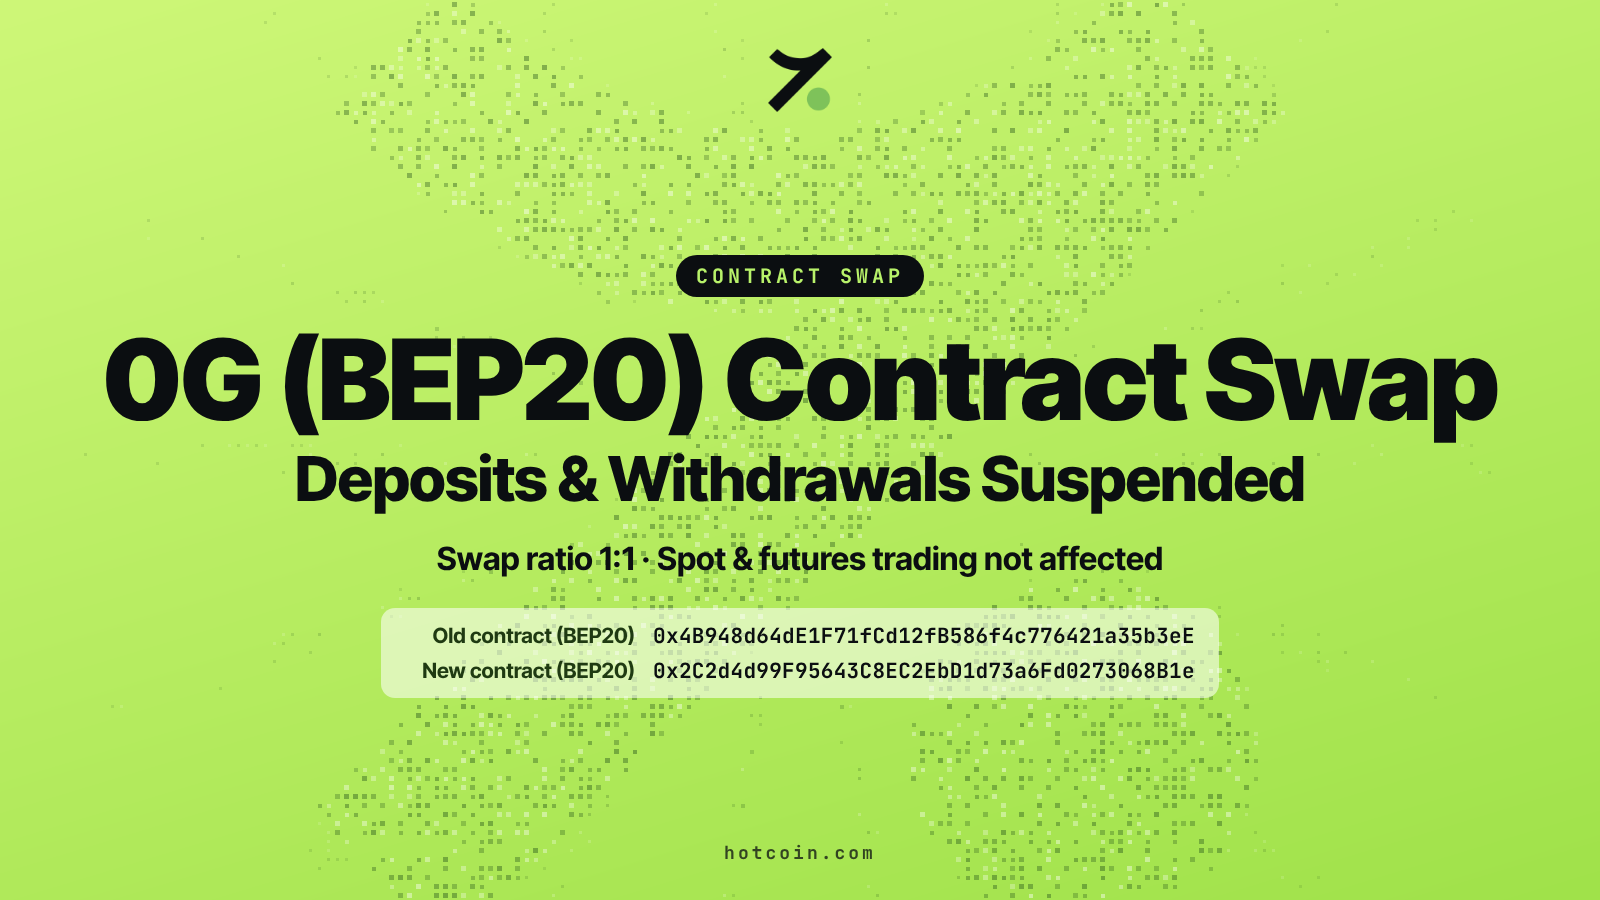
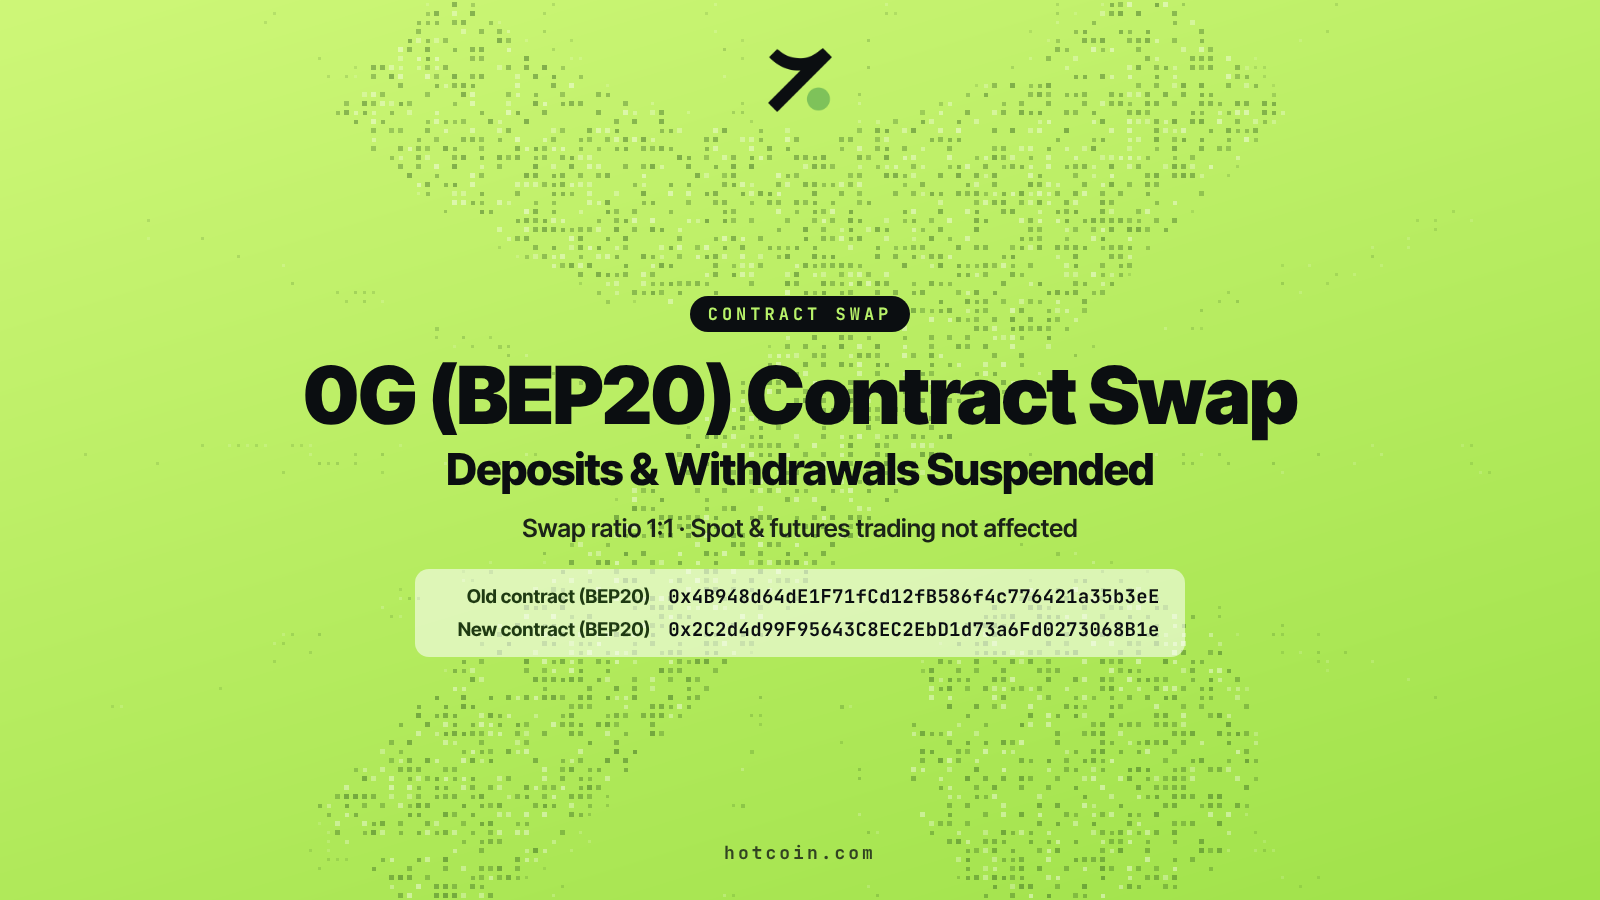
Announcements: accurate hat cutout, smaller type, black theme with symbol at the bottom
Claude-Session: https://claude.ai/code/session_013FLHmBnkkuvxSqLZ9CYW6u

Changed region(s): [[0.0625, 0.28, 0.9375, 0.7778]]

diff --git a/social/announcements/template/make_bg.py b/social/announcements/template/make_bg.py
@@ -4,13 +4,15 @@ import math, random
 from PIL import Image, ImageDraw, ImageFilter
 ROOT = '/home/user/sandbox'
 W, H = 1600, 900
-OUT = ROOT + '/social/announcements/template/bg-lime-1600x900.png'
+import sys
+THEME = sys.argv[1] if len(sys.argv) > 1 else 'lime'
+OUT = ROOT + f'/social/announcements/template/bg-{THEME}-1600x900.png'
 random.seed(9)
 
 # base: soft lime gradient
 bg = Image.new('RGB', (W, H))
 px = bg.load()
-c1, c2 = (206, 247, 120), (160, 226, 74)
+c1, c2 = ((206, 247, 120), (160, 226, 74)) if THEME == 'lime' else ((16, 20, 18), (6, 8, 7))
 for y in range(H):
     for x in range(W):
         t = min(1, max(0, (x / W) * 0.35 + (y / H) * 0.65))
@@ -35,7 +37,10 @@ for gy in range(0, H, step):
         if v < 0.06 or random.random() > 0.55 * v + 0.05: continue
         s = 2 + int(v * 3.2 * random.uniform(0.6, 1.1))
         alpha = int(25 + 95 * v * random.uniform(0.5, 1))
-        col = (24, 70, 20, alpha) if random.random() > 0.3 else (255, 255, 255, int(alpha * 1.1))
+        if THEME == 'lime':
+            col = (24, 70, 20, alpha) if random.random() > 0.3 else (255, 255, 255, int(alpha * 1.1))
+        else:
+            col = (126, 194, 90, int(alpha * 0.9)) if random.random() > 0.25 else (255, 255, 255, int(alpha * 0.45))
         d.rectangle([x - s / 2, y - s / 2, x + s / 2, y + s / 2], fill=col)
 out = Image.alpha_composite(bg.convert('RGBA'), dots).convert('RGB')
 out.save(OUT); print(OUT)

diff --git a/social/announcements/README.md b/social/announcements/README.md
@@ -2,10 +2,10 @@
 
 One folder per announcement: `YYYY-MM-DD-<slug>/` with `ann.json` (image text), `en.md` (post text) and the rendered images.
 
-Render both images (plain and with the 9th-anniversary Ronaldinho footer):
+Render all four images (lime and black, each plain and with the 9th-anniversary Ronaldinho footer):
 
     PW_PATH=$(npm root -g)/playwright node social/announcements/template/ann.mjs $PWD/social/announcements/<folder> <scratch-dir>
 
-Reusable assets in `template/`: `bg-lime-1600x900.png` (halftone background, rebuild with `make_bg.py`),
+Reusable assets in `template/`: `bg-lime-1600x900.png` and `bg-dark-1600x900.png` (halftone backgrounds, rebuild with `make_bg.py lime|dark`),
 `ronaldinho-cutout.png` (cutout from the official 9th-anniversary creative, head rises above the footer band), `symbol-black.png`.
 Always copy contract addresses from the source announcement and check them character by character.
